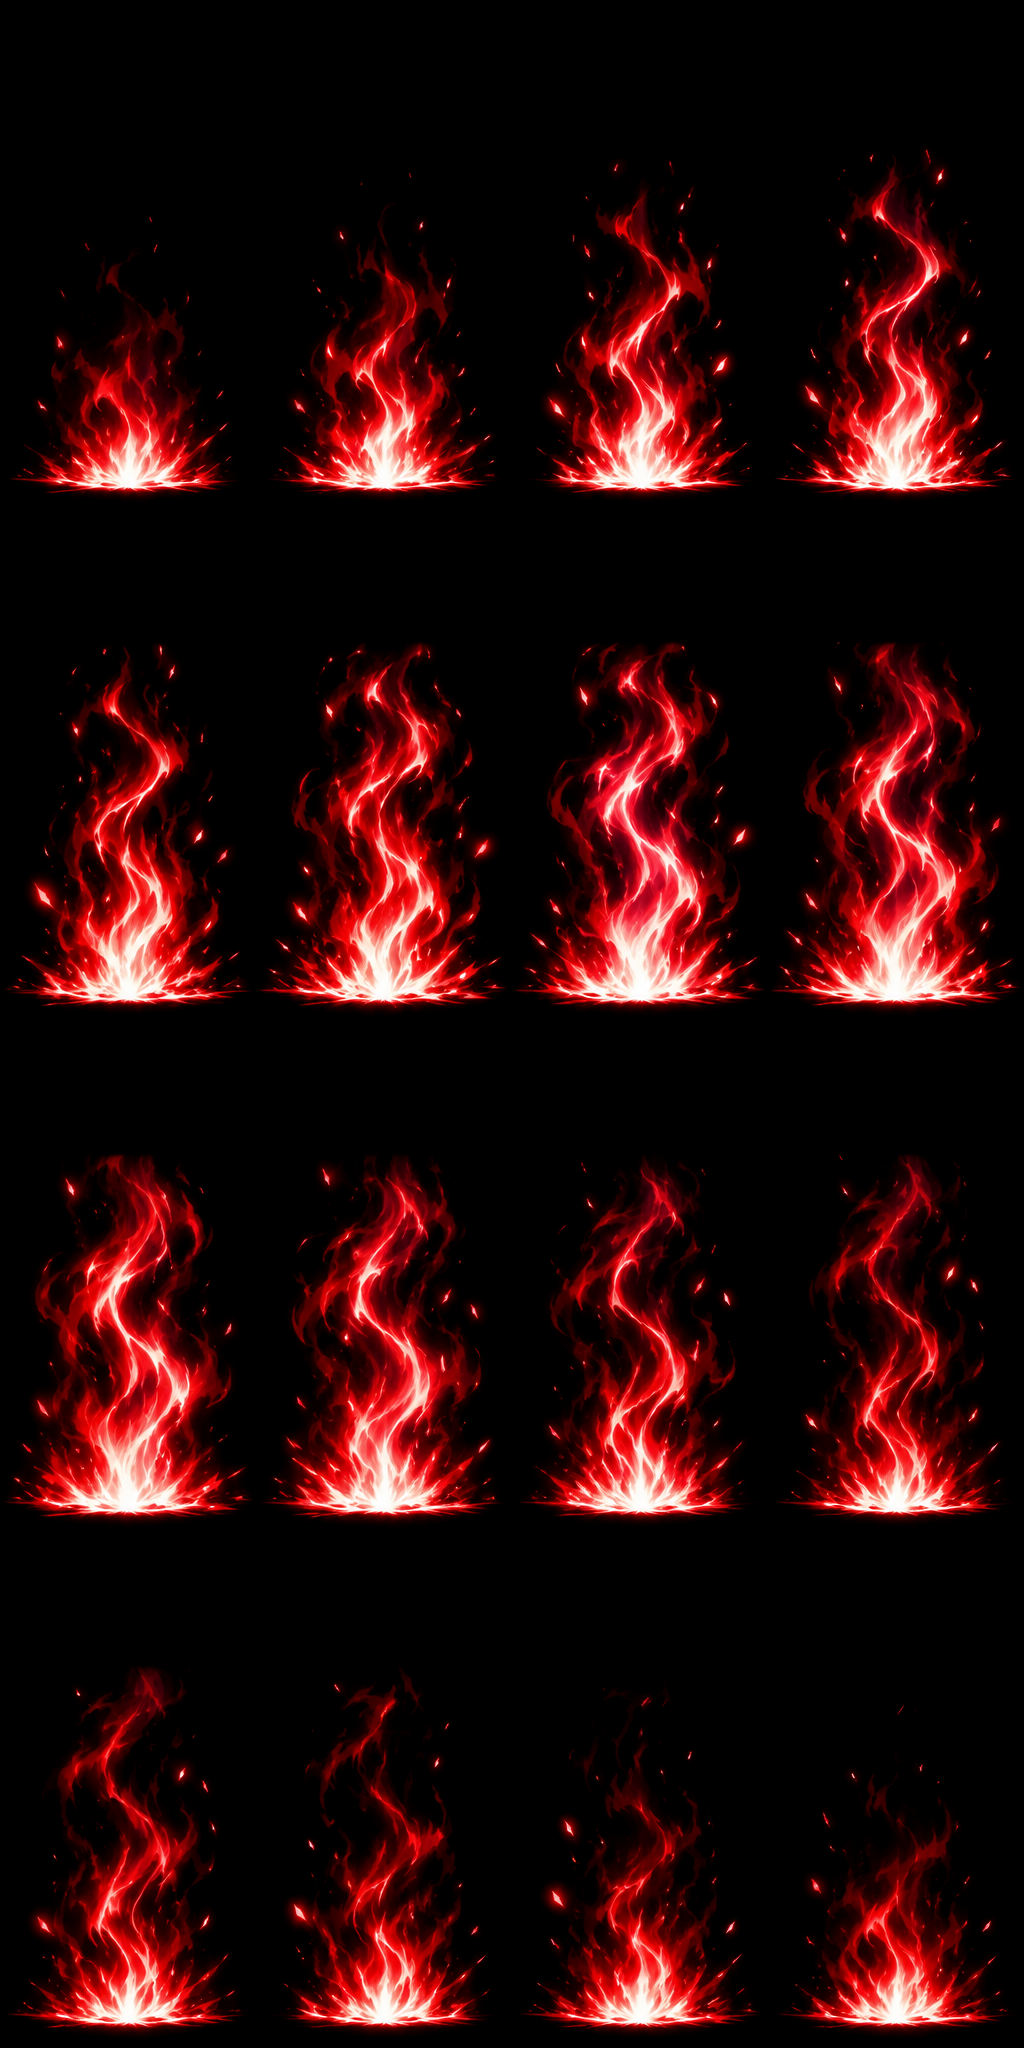
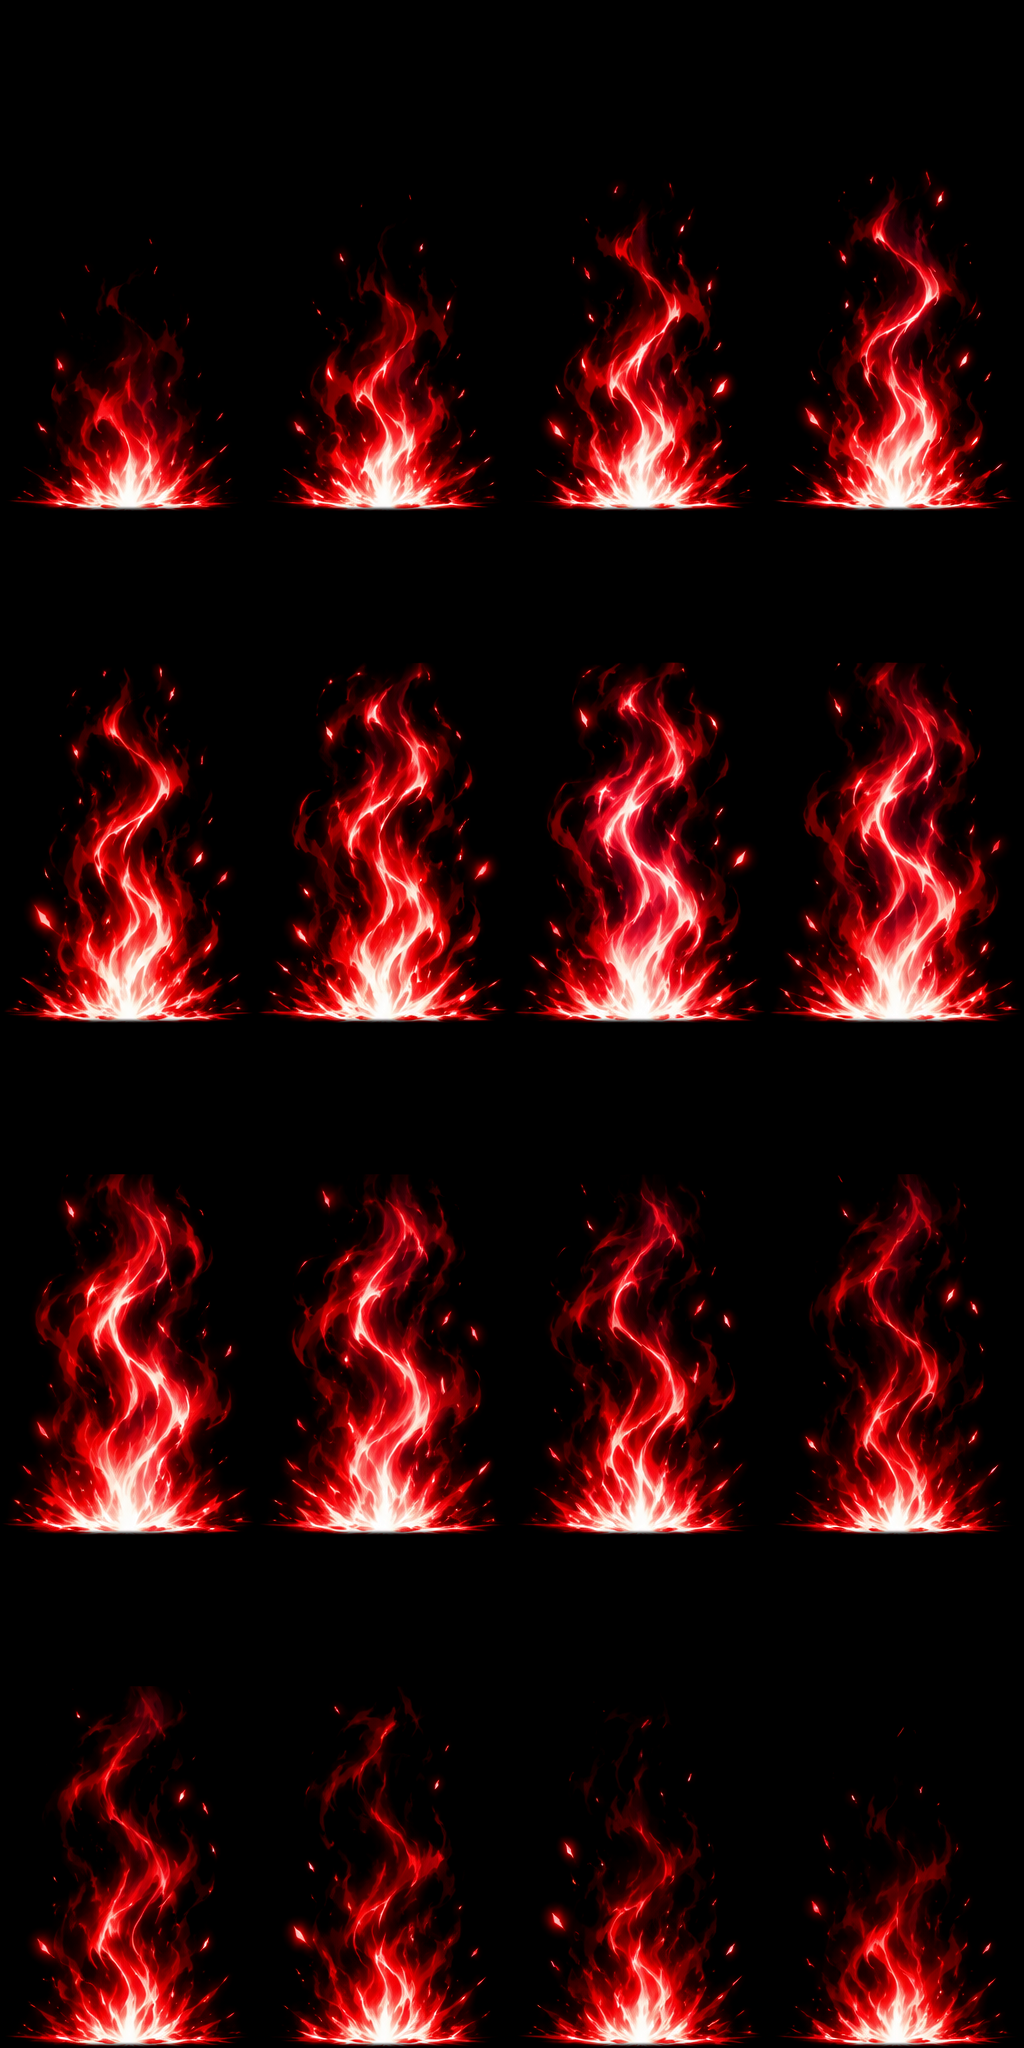
Кровавая волна: кнопка ниже, пламя от пола и плавнее
Claude-Session: https://claude.ai/code/session_01JqUpyqddoJCmPqfiUgmopw

diff --git a/Assets/_Project/Scripts/Visual/SheetFx.cs b/Assets/_Project/Scripts/Visual/SheetFx.cs
@@ -20,9 +20,12 @@ namespace BladePath
         public Transform follow; public Vector3 followOffset;
         // вступление и качание: сначала кадры first…first+intro−1, потом туда-обратно loopFrom…loopTo (лист без бесшовного круга)
         public int intro = -1, loopFrom, loopTo;
+        // второй слой: тот же лист зеркально, со сдвигом по кадрам и чуть ниже — рисунок не повторяется, переходы мягче
+        // (на листах ChatGPT соседние кадры сильно разные — один слой выглядит рваным)
+        public bool mirrorLayer; public int mirrorShift = 4; public float mirrorAlpha = 0.5f, mirrorScale = 0.88f;
         float born;
         Mesh mesh; MeshRenderer mr;
-        readonly Vector3[] v = new Vector3[8]; readonly Vector2[] uv = new Vector2[8]; readonly Color[] col = new Color[8];
+        readonly Vector3[] v = new Vector3[16]; readonly Vector2[] uv = new Vector2[16]; readonly Color[] col = new Color[16];
         static readonly Dictionary<string, Material> mats = new Dictionary<string, Material>();
 
         public float Age { get { return Time.time - born; } }
@@ -59,7 +62,7 @@ namespace BladePath
             s.mesh = new Mesh { name = "SheetFx" };
             s.mesh.MarkDynamic();
             s.mesh.vertices = s.v; s.mesh.uv = s.uv; s.mesh.colors = s.col;
-            s.mesh.triangles = new[] { 0, 2, 1, 0, 3, 2, 4, 6, 5, 4, 7, 6 };
+            s.mesh.triangles = new[] { 0, 2, 1, 0, 3, 2, 4, 6, 5, 4, 7, 6, 8, 10, 9, 8, 11, 10, 12, 14, 13, 12, 15, 14 };
             g.AddComponent<MeshFilter>().sharedMesh = s.mesh;
             s.mr = g.AddComponent<MeshRenderer>();
             s.mr.sharedMaterial = m;
@@ -104,13 +107,22 @@ namespace BladePath
             Vector3 up = Vector3.up * h;
             Vector3 b0 = bottomAnchor ? Vector3.zero : -up * 0.5f;
             Vector3 L = -right * hw + b0, R = right * hw + b0;
-            Quad(0, f0, L, R, up, a * (1f - k));
-            Quad(4, f1, L, R, up, a * k);
+            Quad(0, f0, L, R, up, a * (1f - k), flipX);
+            Quad(4, f1, L, R, up, a * k, flipX);
+            if (mirrorLayer)
+            {
+                int j = i0 + mirrorShift;
+                Vector3 up2 = up * mirrorScale, b2 = bottomAnchor ? Vector3.zero : -up2 * 0.5f;
+                Vector3 L2 = -right * hw * mirrorScale + b2, R2 = right * hw * mirrorScale + b2;
+                Quad(8, Seq(j), L2, R2, up2, a * mirrorAlpha * (1f - k), !flipX);
+                Quad(12, Seq(j + 1), L2, R2, up2, a * mirrorAlpha * k, !flipX);
+            }
+            else for (int q = 8; q < 16; q++) { v[q] = Vector3.zero; col[q] = Color.clear; }
             mesh.vertices = v; mesh.uv = uv; mesh.colors = col;
             mesh.RecalculateBounds();
         }
 
-        void Quad(int o, int frame, Vector3 L, Vector3 R, Vector3 up, float alpha)
+        void Quad(int o, int frame, Vector3 L, Vector3 R, Vector3 up, float alpha, bool flipX)
         {
             float du = 1f / cols, dv = 1f / rows;
             float u0 = (frame % cols) * du, v0 = 1f - (frame / cols + 1) * dv;

diff --git a/Assets/_Project/Scripts/Game/ChargeSystem.cs b/Assets/_Project/Scripts/Game/ChargeSystem.cs
@@ -234,8 +234,13 @@ namespace BladePath
             // кровавая волна: красный столб владельца — 16 кадров (вход 4 → качание 5…12 → хвост 13…16 на отпускании), с наплывом
             if (c.wave)
             {
-                c.sheetPillar = SheetFx.Spawn("pillar_loop_blood", c.f.transform.position, 4, 4, 0, 16, 13f, true, 1f, 2f);
-                if (c.sheetPillar != null) { c.sheetPillar.bottomAnchor = true; c.sheetPillar.intro = 4; c.sheetPillar.loopFrom = 4; c.sheetPillar.loopTo = 11; c.sheetPillar.tint = new Color(1f, 1f, 1f, 0f); }
+                c.sheetPillar = SheetFx.Spawn("pillar_loop_blood", c.f.transform.position, 4, 4, 0, 16, 10f, true, 1f, 2f);
+                if (c.sheetPillar != null)
+                {
+                    c.sheetPillar.bottomAnchor = true; c.sheetPillar.intro = 4; c.sheetPillar.loopFrom = 4; c.sheetPillar.loopTo = 11; c.sheetPillar.tint = new Color(1f, 1f, 1f, 0f);
+                    // второй, зеркальный слой со сдвигом на 4 кадра: языки не повторяются, рваные переходы листа сглажены (владелец: «рваное»)
+                    c.sheetPillar.mirrorLayer = true; c.sheetPillar.mirrorShift = 4; c.sheetPillar.mirrorAlpha = 0.55f; c.sheetPillar.mirrorScale = 0.86f;
+                }
             }
             Texture2D pt = c.wave ? null : Resources.Load<Texture2D>(PillarFor(c).Replace("pillar_", "pillar_loop_"));
             if (pt != null) { SheetDims(pt, out c.pillarCols, out c.pillarRows); c.pillarFrames = c.pillarCols * c.pillarRows; }
@@ -452,8 +457,10 @@ namespace BladePath
             if (c.sheetPillar != null)
             {
                 float w = Mathf.Lerp(0.9f, 2.2f, k) * pulse;
-                c.sheetPillar.transform.position = new Vector3(f.transform.position.x, 0f, f.transform.position.z);
-                c.sheetPillar.width = w; c.sheetPillar.aspect = 2f * Mathf.Lerp(0.7f, 1.25f, k);
+                c.sheetPillar.aspect = 2f * Mathf.Lerp(0.6f, 1.0f, k);
+                // основание чуть под землёй: вспышка у пола выходит из камня, а не висит у колен (владелец)
+                c.sheetPillar.transform.position = new Vector3(f.transform.position.x, -0.03f * w * c.sheetPillar.aspect, f.transform.position.z);
+                c.sheetPillar.width = w;
                 float pa = Mathf.Clamp01((t - 0.15f) / 0.4f) * (0.3f + 0.6f * k);
                 c.sheetPillar.tint = new Color(1f, 1f, 1f, pa * (1f - 0.75f * c.ex));
             }

diff --git a/tools/fx/prep_blood_wave.py b/tools/fx/prep_blood_wave.py
@@ -8,7 +8,7 @@
       bwave_fly     8×4 кадров 192×256 → клетки 256×256 (кадр по центру), 2048×1024
       bwave_launch  6×4 кадров 256×256 → сетка 8×4 (24 заняты), 2048×1024
       bwave_hit     6×4 кадров 256×256 → сетка 8×4 (24 заняты), 2048×1024
-      pillar_loop_blood 4×4 кадров 256×384 → клетки 256×512 (низ кадра на низу клетки), 1024×2048
+      pillar_loop_blood 4×4 кадров 256×384 → клетки 256×512 (основание пламени опущено к низу клетки), 1024×2048
   * sigil_blood 1024² и sigil_blood_early (только ядро узора — первая ступень);
   * UI/btn_wave_icon — значок кнопки «ВОЛНА»: кадр полёта с прозрачностью по яркости (интерфейс не умеет сложение цвета).
 """
@@ -35,14 +35,17 @@ def feather(cell, px=6):
     return cell * m[..., None]
 
 
-def repack(a, cols, rows, cw, ch, ocols, orows, ow, oh, anchor="center"):
+def repack(a, cols, rows, cw, ch, ocols, orows, ow, oh, anchor="center", drop=0):
     out = np.zeros((orows * oh, ocols * ow, 3), np.float32)
     for i in range(cols * rows):
         cx, cy = i % cols, i // cols
-        cell = feather(a[cy * ch:(cy + 1) * ch, cx * cw:(cx + 1) * cw])
+        cell = a[cy * ch:(cy + 1) * ch, cx * cw:(cx + 1) * cw]
         ox, oy = i % ocols, i // ocols
         x0 = ox * ow + (ow - cw) // 2
         y0 = oy * oh + ((oh - ch) // 2 if anchor == "center" else oh - ch)
+        if drop:   # сдвиг вниз: основание пламени — у самого низа клетки (на земле), низ кадра уходит за край
+            cell = np.concatenate([np.zeros((drop, cw, 3), np.float32), cell[:ch - drop]], 0)
+        cell = feather(cell)
         out[y0:y0 + ch, x0:x0 + cw] = cell
     return out
 
@@ -65,7 +68,7 @@ def main():
     print("btn_wave_icon 256 x 256")
     save(repack(load(launch), 6, 4, 256, 256, 8, 4, 256, 256), "bwave_launch")
     save(repack(load(hit), 6, 4, 256, 256, 8, 4, 256, 256), "bwave_hit")
-    save(repack(load(pillar), 4, 4, 256, 384, 4, 4, 256, 512, anchor="bottom"), "pillar_loop_blood")
+    save(repack(load(pillar), 4, 4, 256, 384, 4, 4, 256, 512, anchor="bottom", drop=22), "pillar_loop_blood")   # вспышка основания была на 32 px выше низа кадра
     s = Image.fromarray(load(sigil).astype(np.uint8)).resize((1024, 1024), Image.LANCZOS)
     sa = np.asarray(s).astype(np.float32)
     save(sa, "sigil_blood")

diff --git a/Assets/_Project/Scripts/Input/PrototypeInput.cs b/Assets/_Project/Scripts/Input/PrototypeInput.cs
@@ -289,7 +289,7 @@ namespace BladePath
             p = At(194f, 212f); Circle(B.Dash, p.x, p.y, 28f);
             p = At(232f, 214f); Circle(B.Jump, p.x, p.y, 28f);
             p = At(268f, 212f); Circle(B.Energy, p.x, p.y, 25f);
-            p = At(262f, 280f); Circle(B.Wave, p.x, p.y, 25f);   // кровавая волна — над «ШАРОМ», у правого края
+            p = At(250f, 240f); Circle(B.Wave, p.x, p.y, 25f);   // кровавая волна — между «ПРЫЖКОМ» и «ШАРОМ», на их высоте (выше было неудобно — владелец)
             // «дух» — рядом с дугой внизу, под большим пальцем: на месте над дугой (238°, 286) кнопка
             // висела посреди экрана поверх боя
             p = At(186f, 292f); Circle(B.Super, p.x, p.y, 30f);
